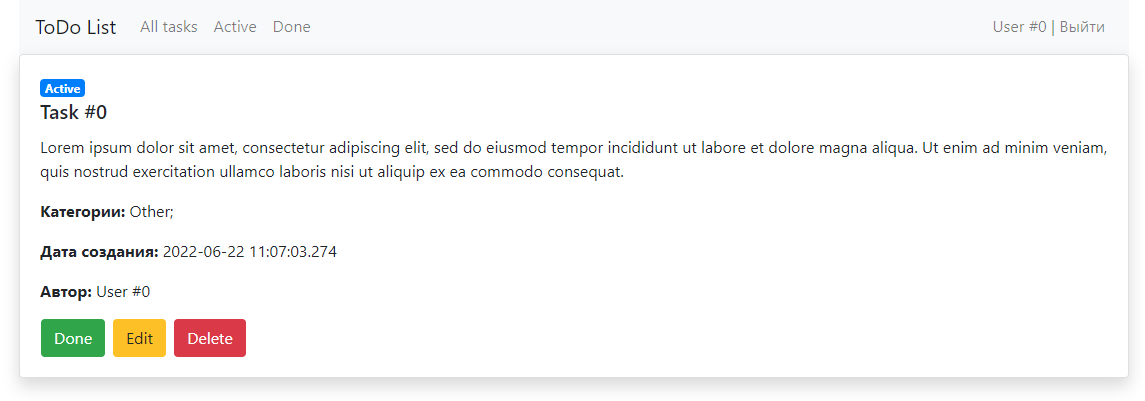
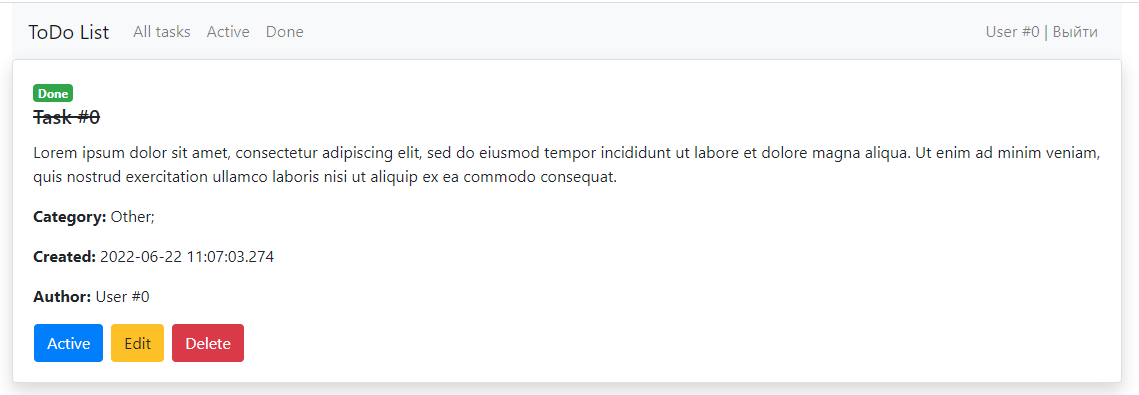
4. Категории в TODO List [#331991 #314850]

diff --git a/src/main/resources/templates/description.html b/src/main/resources/templates/description.html
@@ -68,15 +68,15 @@
                         <span class="card-text" th:text="${task.description}"/>
                     </p>
                     <p>
-                        <b>Категории:</b>
+                        <b>Category:</b>
                         <span th:each="category: ${task.getCategories()}" th:text="${category.name} + '; '"></span>
                     </p>
                     <p>
-                        <b>Дата создания:</b>
+                        <b>Created:</b>
                         <span class="card-text" th:text="${task.created}"/>
                     </p>
                     <p>
-                        <b>Автор:</b>
+                        <b>Author:</b>
                         <span class="card-text" th:text="${task.user.name}"/>
                     </p>
                     <div class="row">
